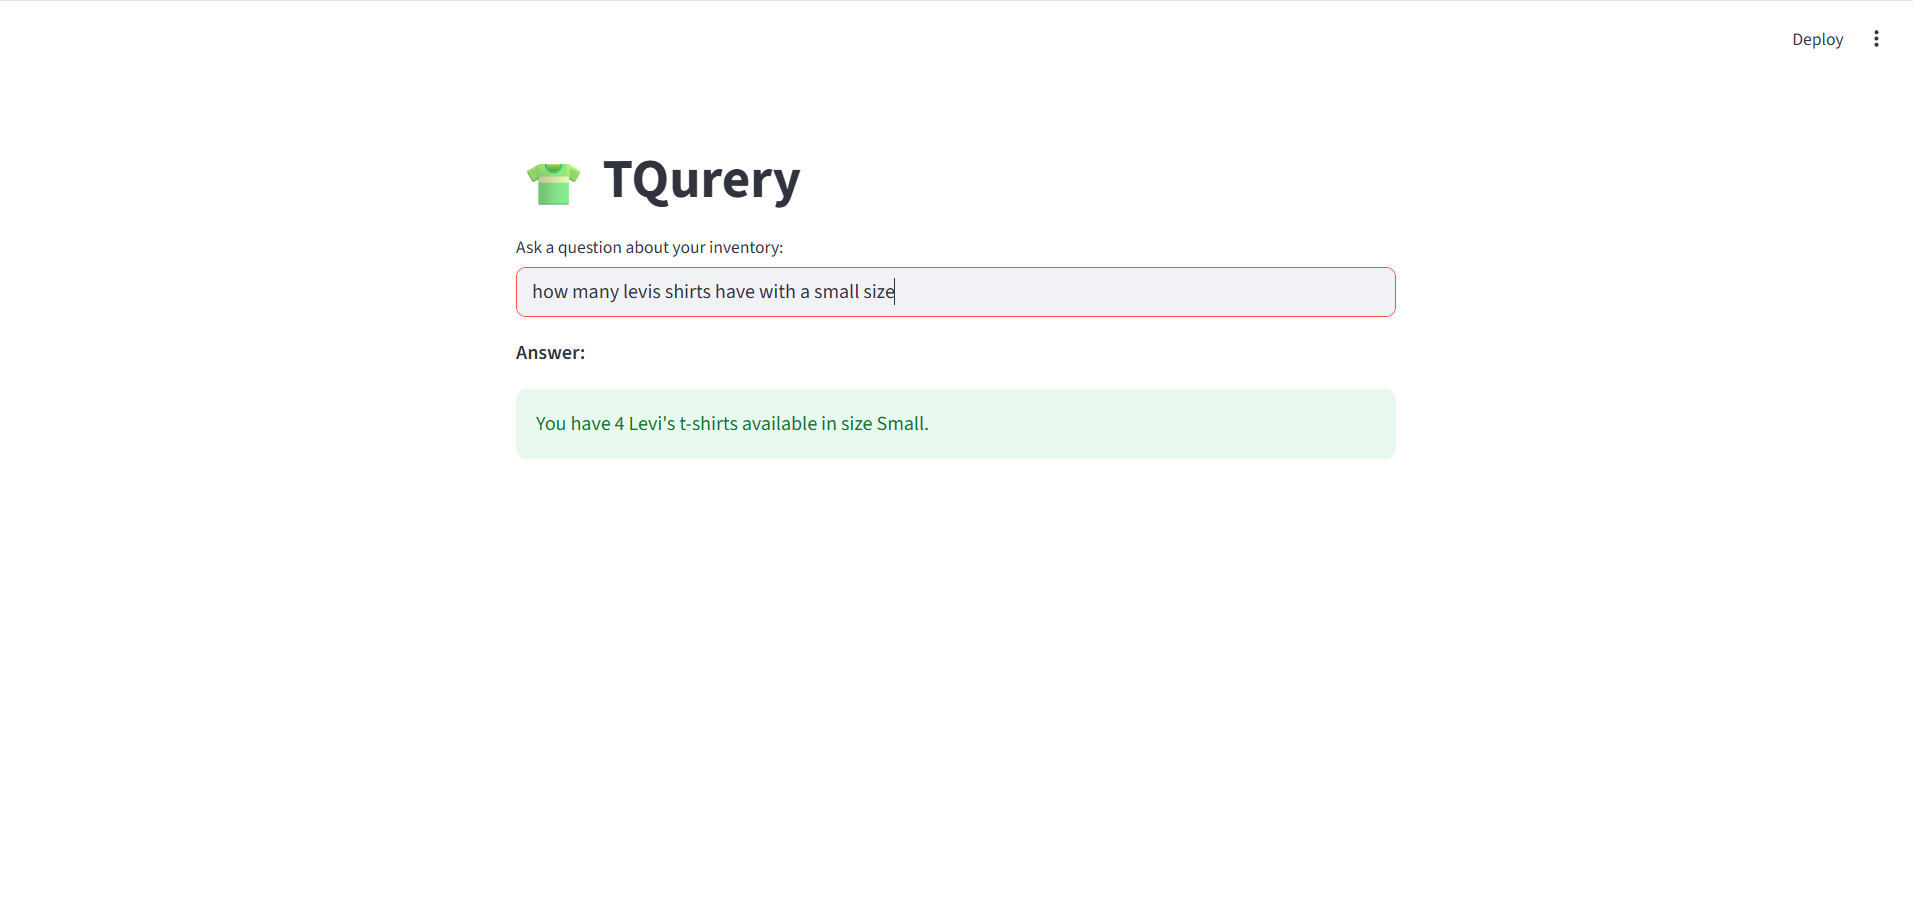
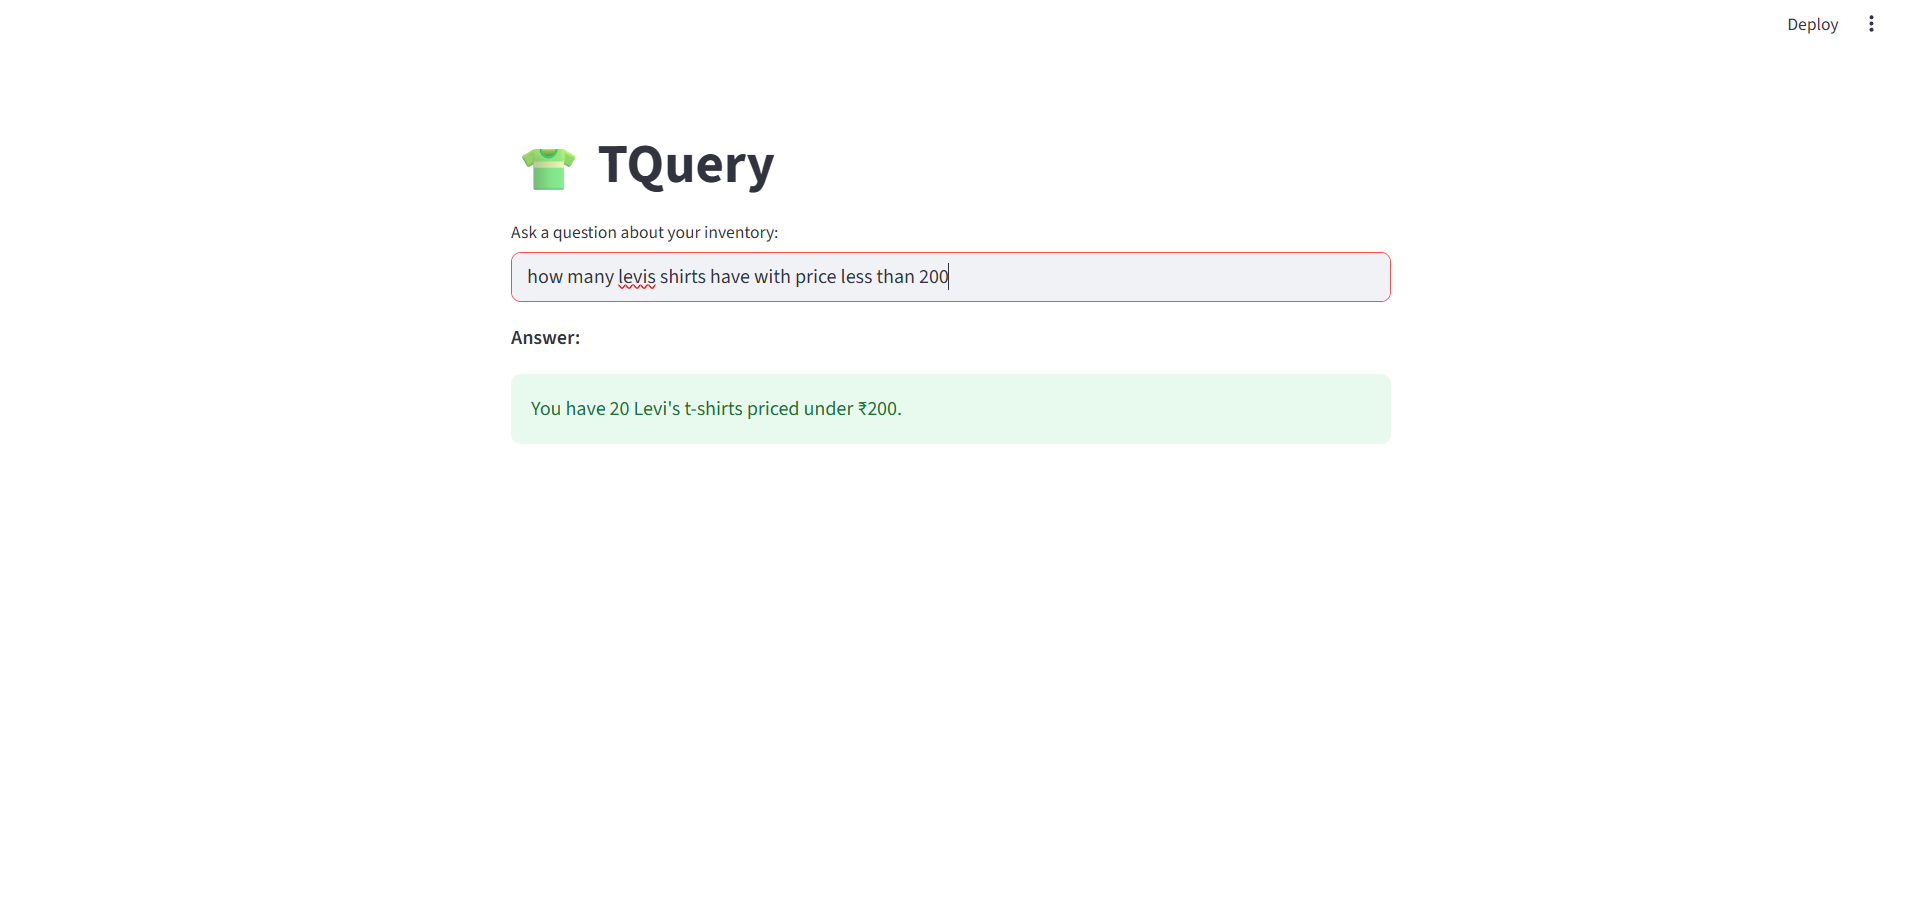
readme updated

Changed region(s): [[0.2471, 0.155, 0.4942, 0.4031], [0.278, 0.4341, 0.4942, 0.4651], [0.9267, 0.0, 0.9885, 0.062]]

diff --git a/backend/llm_chain.py b/backend/llm_chain.py
@@ -8,7 +8,7 @@ from langchain_experimental.sql import SQLDatabaseChain
 from langchain_huggingface import HuggingFaceEmbeddings
 from langchain_community.utilities import SQLDatabase
 
-from backend.few_shots import few_shots
+from few_shots import few_shots
 
 # -------------------- Load Environment Variables --------------------
 load_dotenv()

diff --git a/app.py b/app.py
@@ -3,8 +3,8 @@
 import streamlit as st
 import requests
 
-st.set_page_config(page_title="👕 TQurery", layout="centered")
-st.title("👕 TQurery")
+st.set_page_config(page_title="👕 TQuery", layout="centered")
+st.title("👕 TQuery")
 
 query = st.text_input("Ask a question about your inventory:")
 

diff --git a/README.md b/README.md
@@ -1,4 +1,4 @@
-# 🟡 TQuery: AI-Powered T-Shirt Inventory Assistant
+# 👕 TQuery: AI-Powered T-Shirt Inventory Assistant
 
 **TQuery** is an intelligent conversational assistant that allows non-technical users to interact with a MySQL t-shirt inventory database using natural language. Built with **Google Gemini 2.5-flash**, **LangChain**, **FastAPI**, and **React**, the system translates user queries into SQL, executes them on a live database, and returns beautifully formatted responses.
 
